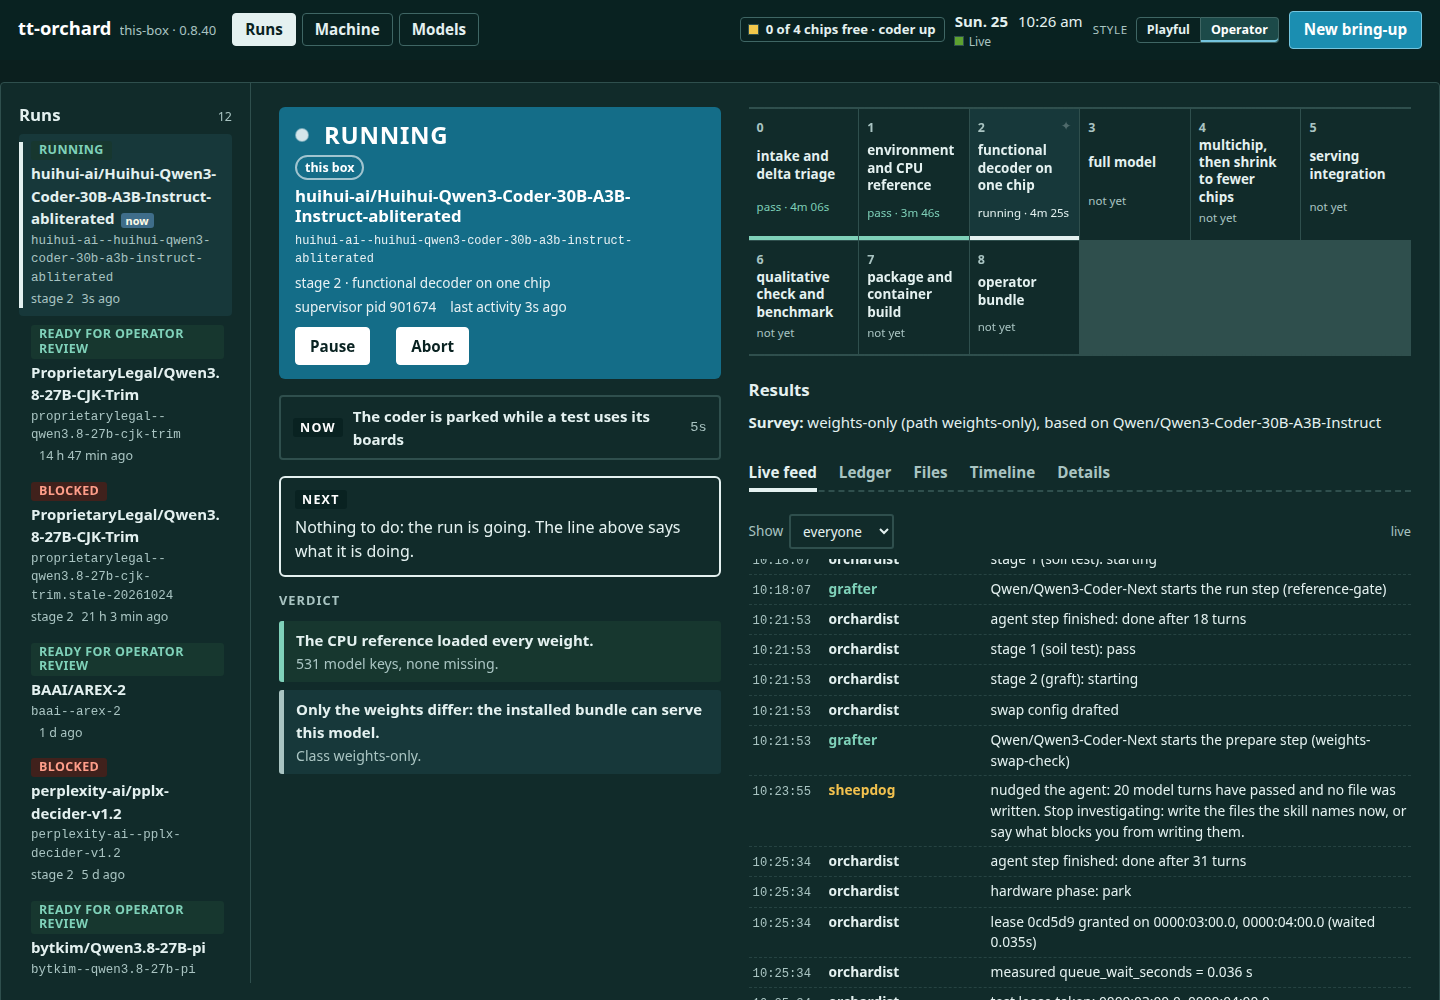
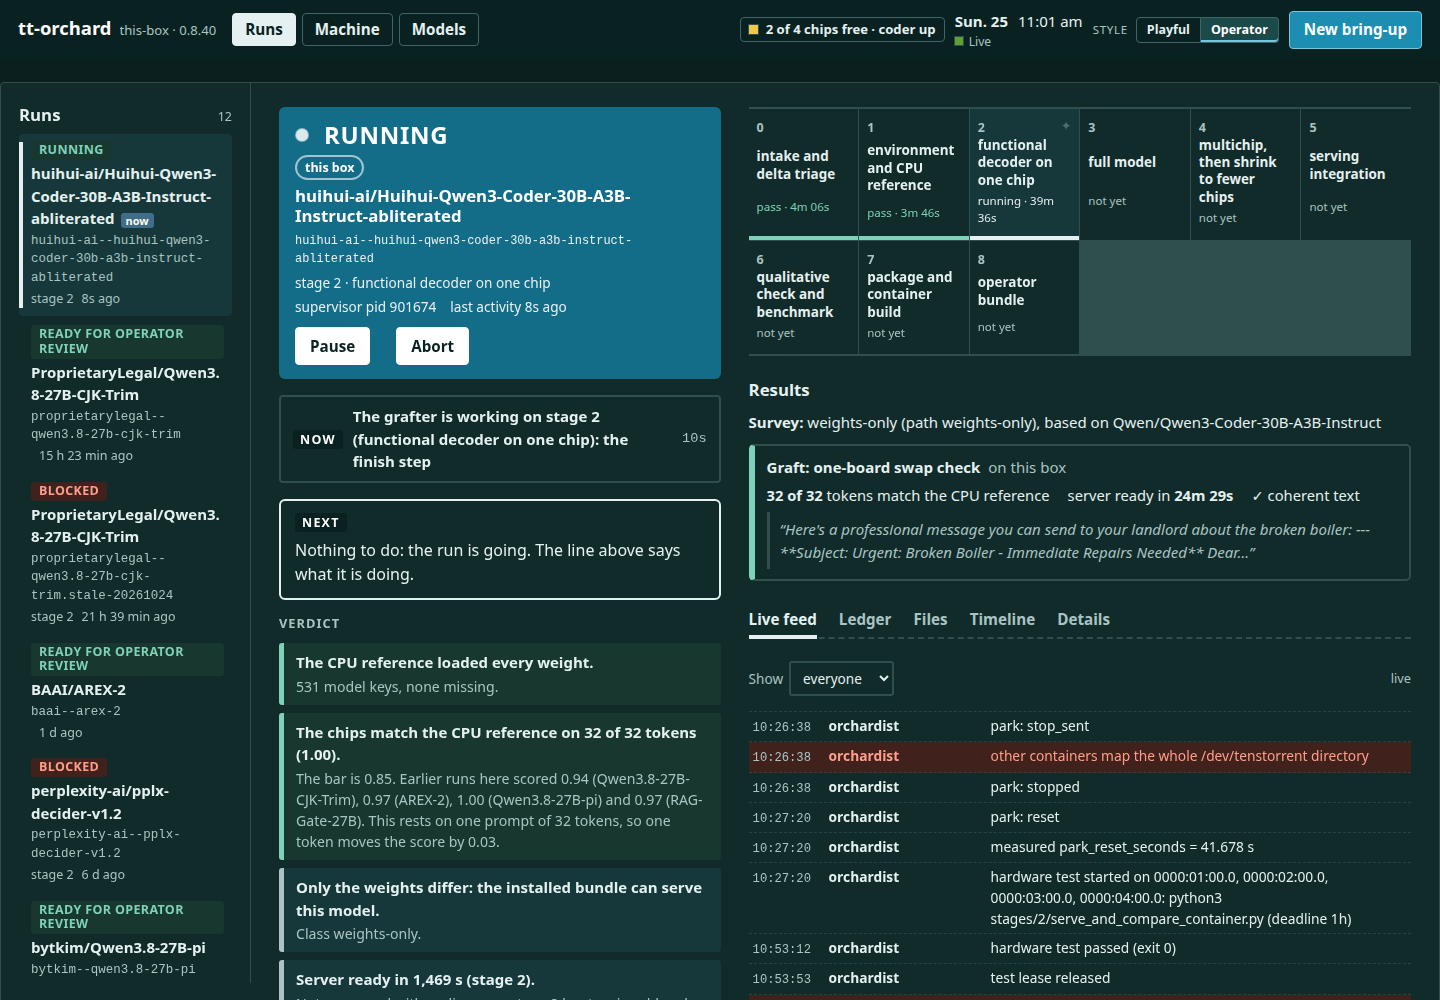
address the PR 71 fifth review: check the page text for credentials before and after each screenshot

Changed region(s): [[0.1875, 0.403, 1.0, 1.0], [0.6562, 0.124, 0.75, 0.217], [0.0938, 0.589, 0.125, 0.62]]

diff --git a/scripts/site_screenshots.py b/scripts/site_screenshots.py
@@ -9,9 +9,14 @@
 Before each shot the home directory, the host name and the user name are replaced in the page text, and the script stops if one is still visible.
 A shot is a picture of one real run in one style; nothing is mocked.
 """
+import re
 import socket
 import sys
 from pathlib import Path
+
+ROOT = Path(__file__).resolve().parent.parent
+sys.path.insert(0, str(ROOT))
+from orchard import scrub  # noqa: E402
 
 from playwright.sync_api import expect, sync_playwright
 
@@ -23,6 +28,17 @@ SHOTS = [  # file, run directory name (exact), style
     ("ui-finished-operator.png", "proprietarylegal--qwen3.8-27b-cjk-trim", "operator"),
     ("ui-blocked-operator.png", "perplexity-ai--pplx-decider-v1.2", "operator"),
 ]
+SECRET_SHAPES = (re.compile(r"(?i)\b(secret|password|passwd|api[_-]?key|authorization|bearer)\b"), re.compile(r"(?i)\btokens?\b[\"']?\s*[:=]"),
+                 re.compile(r"\bsk-[A-Za-z0-9_-]{16,}"), re.compile(r"\bAKIA[0-9A-Z]{16}\b"))
+
+
+def credential_hits(text: str) -> list[str]:
+    """What in the visible page text looks like a credential: the scrub module's token and key patterns, plus secret words and shapes. A hit stops the script."""
+    hits = [what for what, pattern in scrub.TOKEN_PATTERNS if pattern.search(text)]
+    hits += [p.pattern for p in SECRET_SHAPES if p.search(text)]
+    return hits
+
+
 REDACT = """([host, user]) => {
   const re = [[/\\/home\\/[^\\s·"']*/g, "~"], [new RegExp(host, "gi"), "this-box"], [new RegExp("\\\\b" + user + "\\\\b", "g"), "user"]];
   const w = document.createTreeWalker(document.body, NodeFilter.SHOW_TEXT); let n;
@@ -52,10 +68,19 @@ def main(url: str, out: str) -> int:
             expect(page.locator("#run")).to_contain_text(fragment)
             page.wait_for_timeout(2500)
             page.evaluate(REDACT, [host, user])
-            text = page.inner_text("body")
-            assert "/home/" not in text, f"a home path is visible in {name}"
-            assert host.lower() not in text.lower() or host.lower() in ("this-box", ""), f"the host name is visible in {name}"
+
+            def check() -> None:
+                text = page.inner_text("body")
+                assert "/home/" not in text, f"a home path is visible in {name}"
+                assert host.lower() not in text.lower() or host.lower() in ("this-box", ""), f"the host name is visible in {name}"
+                assert not credential_hits(text), f"{name}: the page text looks like it holds a credential: {credential_hits(text)}"
+            check()
             page.screenshot(path=str(out_dir / name), full_page=False)
+            try:
+                check()                       # the live page may have changed while the picture was taken: if it now fails, the picture is not kept
+            except AssertionError:
+                (out_dir / name).unlink(missing_ok=True)
+                raise
             print("wrote", name, flush=True)
             ctx.close()
         browser.close()

diff --git a/tests/test_site_screenshots.py b/tests/test_site_screenshots.py
@@ -1,0 +1,28 @@
+# SPDX-License-Identifier: Apache-2.0
+# SPDX-FileCopyrightText: 2026 Tenstorrent USA, Inc.
+"""The screenshot script's credential check (review of PR 71): visible page text is read for credentials before a picture is published."""
+import importlib.util
+from pathlib import Path
+
+SPEC = importlib.util.spec_from_file_location("site_screenshots", Path(__file__).resolve().parent.parent / "scripts" / "site_screenshots.py")
+sh = importlib.util.module_from_spec(SPEC)
+try:
+    SPEC.loader.exec_module(sh)
+except ImportError:                  # playwright is not installed here: the script imports it at the top
+    import sys, types
+    stub = types.ModuleType("playwright.sync_api")
+    stub.expect = stub.sync_playwright = None
+    sys.modules.setdefault("playwright", types.ModuleType("playwright"))
+    sys.modules["playwright.sync_api"] = stub
+    SPEC.loader.exec_module(sh)
+
+
+def test_tokens_and_keys_in_the_page_text_are_hits():
+    for text in ("hf_" + "A" * 36, "ghp_" + "b" * 40, "sk-" + "x" * 24, "AKIA" + "A" * 16, "-----BEGIN RSA PRIVATE KEY-----",
+                 "Authorization: Basic abc", "api_key: x", "the password is x", "token=abc", 'token": "abc'):
+        assert sh.credential_hits(text), text
+
+
+def test_ordinary_page_text_is_clean():
+    page = "RUNNING huihui-ai/Huihui-Qwen3-Coder-30B-A3B-Instruct-abliterated stage 2 functional decoder the tokenizer has 248320 tokens operator accepted visible credentials"
+    assert sh.credential_hits(page) == []

diff --git a/CLAUDE.md b/CLAUDE.md
@@ -2165,3 +2165,4 @@ catalog models from their headers (tiles with the first reason), screenshots of 
 - Second look (Copilot, PR 71), both real: the replay added one day when the clock wrapped, so a run longer than two days went backwards; consecutive lines now count each wrap (two tests, one mutation red). The filter, screenshot and copy buttons used `all: unset` and had no focus ring; a `:focus-visible` outline is on all of them.
 - Third look (Copilot, PR 71): the replay export removed paths, the host and the user name but not credentials. Narration text now has the scrub module's token patterns (Hugging Face, GitHub, private keys) and assignments or headers that carry a secret (`token=`, `password`, `api_key`, `Authorization`, `Bearer`, `sk-` and AWS key shapes) replaced by `<redacted>`, in the assembled message; the final check runs `orchard.scrub.scrub_text` over every data file and stops on a hit. The first test found the order mattered (`Authorization: Bearer abc` left the token behind when the header pattern ran first). Three tests; 3 mutations, all red. The committed replay changed in no line (none held a credential).
 - Fourth look (Copilot, PR 71), three real findings about redacting values one by one (an `Authorization: Basic <credentials>` scheme, a quoted password with spaces and a JSON `api_key` field survived, and a PEM body survived once its marker was replaced). Redacting a value cannot be done safely across all those shapes, so the replay now withholds a whole message that matches a sensitive pattern (a secret, password, api key, authorization or bearer word, a `token` assignment, a token, key or key-marker shape) and keeps its time and actor. Messages are assembled before the test, so a token or PEM block split across wrapped lines is caught. The word `credentials` alone and `tokenizer`, `tokens` are kept (the run's own "operator accepted visible credentials" line is in the replay). 13 tests; 4 mutations red (the PEM marker pattern is covered by the shared token patterns, so removing it alone changes nothing).
+- Fifth look (Copilot, PR 71): the screenshot script checked the page for a home path and the host name only. It now reads the visible text for credentials before the picture (the scrub module's token and key patterns, secret words, key shapes; a hit stops the script), reads it again after the picture and deletes the file if the live page changed into a failing state in between. The first attempt froze the page by blocking `/api` requests, which put "reconnecting..." in the picture; that was removed in favour of the second check. `tests/test_site_screenshots.py` (2) covers the check; 2 mutations red. The five pictures were taken again; the running one now shows the validation run's stage 2 result (32 of 32 tokens, ready in 24 m 29 s).
